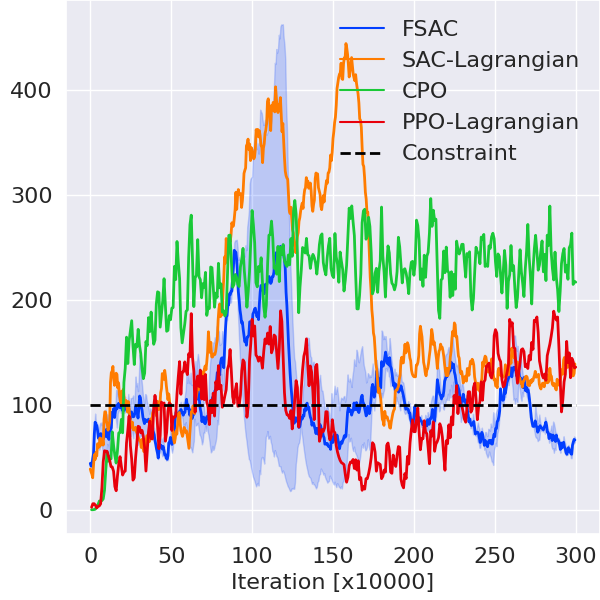
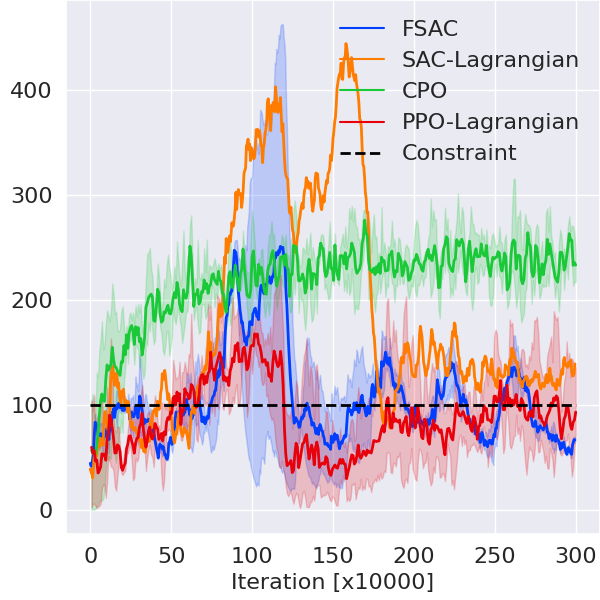
trainable for simple env

Changed region(s): [[0.15, 0.3, 0.96, 0.87]]

diff --git a/train_scripts/train_script4fsac.py b/train_scripts/train_script4fsac.py
@@ -29,7 +29,7 @@ from optimizer import OffPolicyAsyncOptimizer, SingleProcessOffPolicyOptimizer, 
 from policy import PolicyWithQs, PolicyWithMu
 from tester import Tester
 from trainer import Trainer
-from worker import OffPolicyWorker, OffPolicyWorkerWithCost
+from worker import OffPolicyWorkerWithCost
 
 logger = logging.getLogger(__name__)
 logging.basicConfig(level=logging.INFO)
@@ -37,7 +37,7 @@ logging.basicConfig(level=logging.INFO)
 
 os.environ['TF_CPP_MIN_LOG_LEVEL'] = '3'
 os.environ['OMP_NUM_THREADS'] = '1'
-NAME2WORKERCLS = dict([('OffPolicyWorker', OffPolicyWorker),
+NAME2WORKERCLS = dict([
                        ('OffPolicyWorkerWithCost', OffPolicyWorkerWithCost)])
 NAME2LEARNERCLS = dict([('MPG', MPGLearner),
                         ('AMPC', AMPCLearner),
@@ -58,9 +58,9 @@ NAME2OPTIMIZERCLS = dict([('OffPolicyAsync', OffPolicyAsyncOptimizer),
                           ('SingleProcessOffPolicy', SingleProcessOffPolicyOptimizer)])
 NAME2POLICYCLS = dict([('PolicyWithQs', PolicyWithQs),('PolicyWithMu',PolicyWithMu)])
 NAME2EVALUATORCLS = dict([('Evaluator', Evaluator), ('EvaluatorWithCost', EvaluatorWithCost), ('None', None)])
-NUM_WORKER = 10
-NUM_LEARNER = 10
-NUM_BUFFER = 10
+NUM_WORKER = 4
+NUM_LEARNER = 4
+NUM_BUFFER = 4
 
 def built_FSAC_parser():
     parser = argparse.ArgumentParser()
@@ -95,11 +95,11 @@ def built_FSAC_parser():
     parser.add_argument('--optimizer_type', type=str, default='OffPolicyAsyncWithCost') # SingleProcessOffPolicy OffPolicyAsyncWithCost
     parser.add_argument('--off_policy', type=str, default=True)
     parser.add_argument('--random_seed', type=int, default=2)
-    parser.add_argument('--penalty_start', type=int, default=1500000)
+    parser.add_argument('--penalty_start', type=int, default=600000)
     parser.add_argument('--demo', type=bool, default=False)
 
     # env
-    parser.add_argument('--env_id', default='Safexp-PointButton1-v0')
+    parser.add_argument('--env_id', default='Walker2d-v3')
     parser.add_argument('--num_agent', type=int, default=1)
     parser.add_argument('--num_future_data', type=int, default=0)
 
@@ -111,7 +111,7 @@ def built_FSAC_parser():
     parser.add_argument('--gradient_clip_norm', type=float, default=10.)
     parser.add_argument('--lam_gradient_clip_norm', type=float, default=3.)
     parser.add_argument('--num_batch_reuse', type=int, default=1)
-    parser.add_argument('--cost_lim', type=float, default=4.0)
+    parser.add_argument('--cost_lim', type=float, default=80.0)
     parser.add_argument('--mlp_lam', default=True) # True: fsac, false: sac-lagrangian todo: add to new algo
     parser.add_argument('--double_QC', type=bool, default=False)
 
@@ -150,13 +150,13 @@ def built_FSAC_parser():
     parser.add_argument('--policy_num_hidden_units', type=int, default=256)
     parser.add_argument('--policy_hidden_activation', type=str, default='elu')
     parser.add_argument('--policy_out_activation', type=str, default='linear')
-    parser.add_argument('--policy_lr_schedule', type=list, default=[3e-5, 1000000, 3e-6])
-    parser.add_argument('--lam_lr_schedule', type=list, default=[5e-6, 300000, 3e-6])
+    parser.add_argument('--policy_lr_schedule', type=list, default=[3e-5, 400000, 3e-6])
+    parser.add_argument('--lam_lr_schedule', type=list, default=[5e-6, 100000, 3e-6])
     parser.add_argument('--alpha', default='auto')  # 'auto' 0.02
     alpha = parser.parse_args().alpha
     if alpha == 'auto':
         parser.add_argument('--target_entropy', type=float, default=-2)
-    parser.add_argument('--alpha_lr_schedule', type=list, default=[8e-5, 1000000, 8e-6])
+    parser.add_argument('--alpha_lr_schedule', type=list, default=[8e-5, 400000, 8e-6])
     parser.add_argument('--policy_only', type=bool, default=False)
     parser.add_argument('--double_Q', type=bool, default=True)
     parser.add_argument('--target', type=bool, default=True)
@@ -179,14 +179,14 @@ def built_FSAC_parser():
 
     # Optimizer (PABAL)
     parser.add_argument('--max_sampled_steps', type=int, default=0)
-    parser.add_argument('--max_iter', type=int, default=3000000)
+    parser.add_argument('--max_iter', type=int, default=1200000)
     parser.add_argument('--num_workers', type=int, default=NUM_WORKER)
     parser.add_argument('--num_learners', type=int, default=NUM_LEARNER)
     parser.add_argument('--num_buffers', type=int, default=NUM_BUFFER)
     parser.add_argument('--max_weight_sync_delay', type=int, default=30)
     parser.add_argument('--grads_queue_size', type=int, default=25)
-    parser.add_argument('--grads_max_reuse', type=int, default=10)
-    parser.add_argument('--eval_interval', type=int, default=5000) # 1000
+    parser.add_argument('--grads_max_reuse', type=int, default=25)
+    parser.add_argument('--eval_interval', type=int, default=10000) # 1000
     parser.add_argument('--save_interval', type=int, default=200000) # 200000
     parser.add_argument('--log_interval', type=int, default=100) # 100
 
@@ -319,7 +319,7 @@ def built_SAC_Lagrangian_parser():
     num_future_data = parser.parse_args().num_future_data
     parser.add_argument('--obs_scale', type=list, default=None)
     parser.add_argument('--rew_ptype', type=str, default='scale')
-    parser.add_argument('--rew_scale', type=float, default=1.)
+    parser.add_argument('--rew_scale', type=float, default=0.2)
     parser.add_argument('--rew_shift', type=float, default=0.)
 
     # Optimizer (PABAL)
@@ -543,4 +543,4 @@ def main(alg_name):
 
 
 if __name__ == '__main__':
-    main('SAC')
+    main('FSAC')

diff --git a/evaluator.py b/evaluator.py
@@ -347,6 +347,7 @@ class EvaluatorWithCost(object):
         episode_velo = sum(velo_list)/len(velo_list)
         max_velo = max(velo_list)
         min_velo = min(velo_list)
+        std_velo = np.std(velo_list)
         for key in info_list[0].keys():
             info_key = list(map(lambda x: x[key], info_list))
             mean_key = sum(info_key) / len(info_key)
@@ -357,6 +358,7 @@ class EvaluatorWithCost(object):
                               episode_return=episode_return,
                               episode_len=episode_len,
                               episode_velo_mean=episode_velo,
+                              episode_velo_std=std_velo,
                               episode_velo_max=max_velo,
                               episode_velo_min=min_velo))
         return info_dict
@@ -466,6 +468,13 @@ class EvaluatorWithCost(object):
             key_list.extend(['episode_cost', 'ep_cost_rate'])
             value_list.extend([episode_cost, ep_cost_rate])
 
+        elif self.args.env_id in ['Walker2d-v3','HalfCheetah-v3']:
+            episode_velo_mean = episode_info['episode_velo_mean']
+            episode_velo_std = episode_info['episode_velo_std']
+            episode_velo_max = episode_info['episode_velo_max']
+            episode_velo_min = episode_info['episode_velo_min']
+            key_list.extend(['episode_velo_mean', 'episode_velo_std', 'episode_velo_max', 'episode_velo_min'])
+            value_list.extend([episode_velo_mean, episode_velo_std, episode_velo_max, episode_velo_min])
         return dict(zip(key_list, value_list))
 
     def set_weights(self, weights):

diff --git a/learners/sac.py b/learners/sac.py
@@ -300,14 +300,14 @@ class SACLearnerWithCost(object):
             clipped_double_qc_target = processed_cost + self.args.cost_gamma * \
                                        (np.maximum(target_QC1_of_tp1, target_QC2_of_tp1))
         else:
-            clipped_double_qc_target = self.batch_data['batch_velos'].numpy()
+            clipped_double_qc_target = self.batch_data['batch_velos']
 
         return clipped_double_q_target, np.clip(clipped_double_qc_target, 0, np.inf)
 
     def compute_td_error(self):
         processed_obs = self.preprocessor.tf_process_obses(self.batch_data['batch_obs']).numpy()  # n_step*obs_dim
         processed_rewards = self.preprocessor.tf_process_rewards(self.batch_data['batch_rewards']).numpy()
-        processed_cost = self.batch_data['batch_costs']
+        processed_cost = self.batch_data['batch_velos']
         processed_obs_tp1 = self.preprocessor.tf_process_obses(self.batch_data['batch_obs_tp1']).numpy()
 
         values_t = self.policy_with_value.compute_Q1(processed_obs, self.batch_data['batch_actions']).numpy()
@@ -317,7 +317,7 @@ class SACLearnerWithCost(object):
 
         cost_values_t = self.policy_with_value.compute_QC1(processed_obs, self.batch_data['batch_actions']).numpy()
         target_Q_cost_of_tp1 = self.policy_with_value.compute_QC1_target(processed_obs_tp1, target_act_tp1).numpy()
-        cost_td_error = np.abs(processed_cost + self.args.gamma * target_Q_cost_of_tp1 - cost_values_t) + 1e-8
+        cost_td_error = np.abs(processed_cost - cost_values_t) + 1e-8
         return td_error, cost_td_error
 
     def get_weights(self):

diff --git a/optimizer.py b/optimizer.py
@@ -408,10 +408,9 @@ class OffPolicyAsyncOptimizerWithCost(object):
         # sampling
         with self.timers['sampling_timer']:
             for worker, objID in self.sample_tasks.completed():
-                sample_batch, count, count_costs = ray.get(objID)
+                sample_batch, count = ray.get(objID)
                 random.choice(self.replay_buffers).add_batch.remote(sample_batch)
                 self.num_sampled_steps += count
-                self.num_sampled_costs += count_costs
                 self.steps_since_update[worker] += count
                 ppc_params = worker.get_ppc_params.remote()
                 if self.steps_since_update[worker] >= self.max_weight_sync_delay:

diff --git a/data_process/lineplot.py b/data_process/lineplot.py
@@ -61,7 +61,7 @@ def help_func():
     tag2plot = ['episode_cost']
     alg_list = ['FSAC','SAC-Lagrangian', 'CPO', 'PPO-Lagrangian'] # 'SAC',
     lbs = ['FSAC','SAC-Lagrangian',  'CPO', 'PPO-Lagrangian'] # 'SAC',
-    task = ['CarButton']
+    task = ['PointButton']
     #todo: CarGoal: sac
     #todo: CarButton: sac choose better fac
     # todo: CarPush: ???
